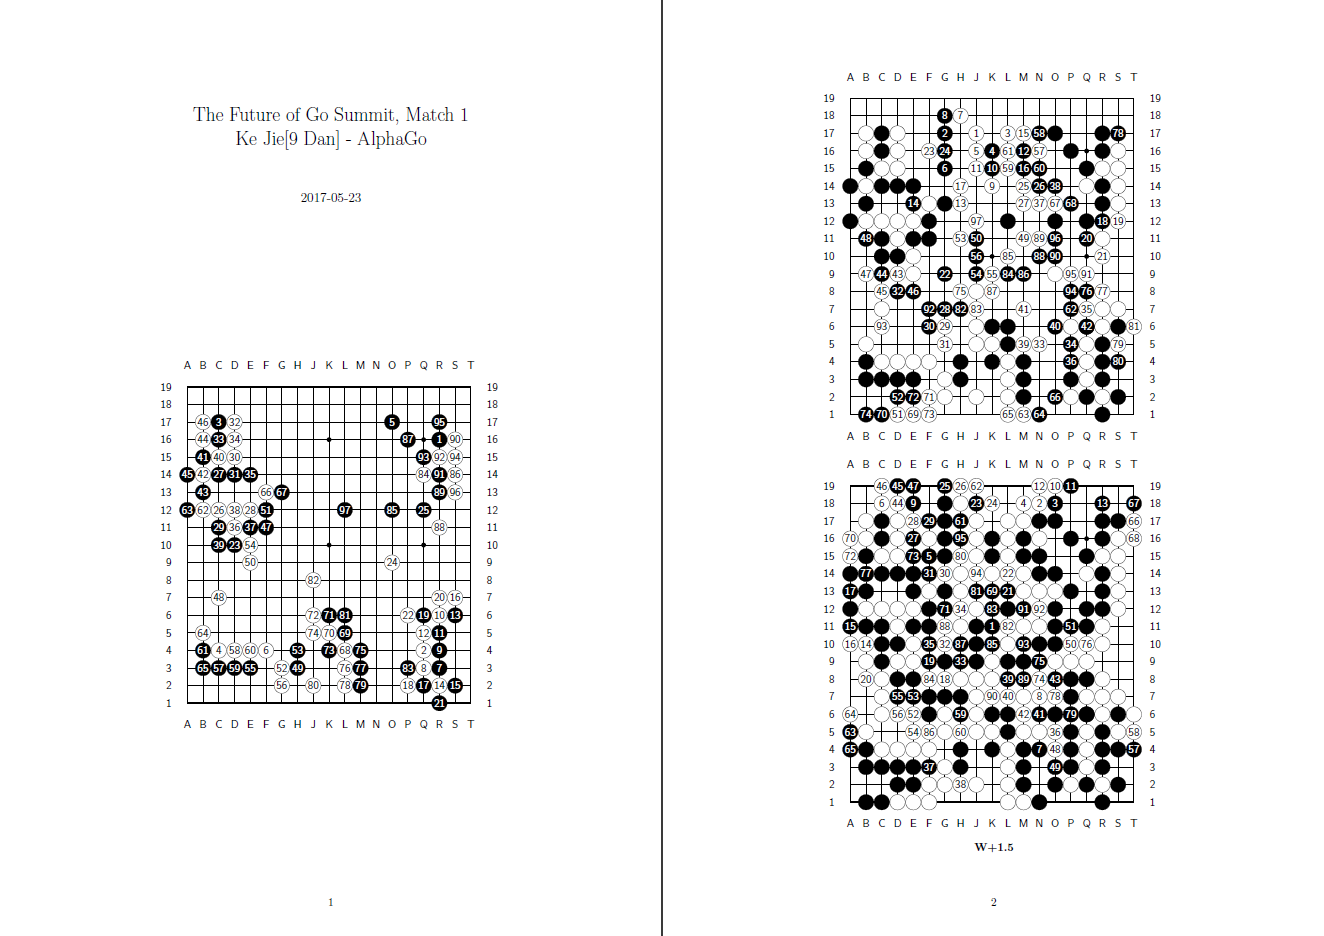
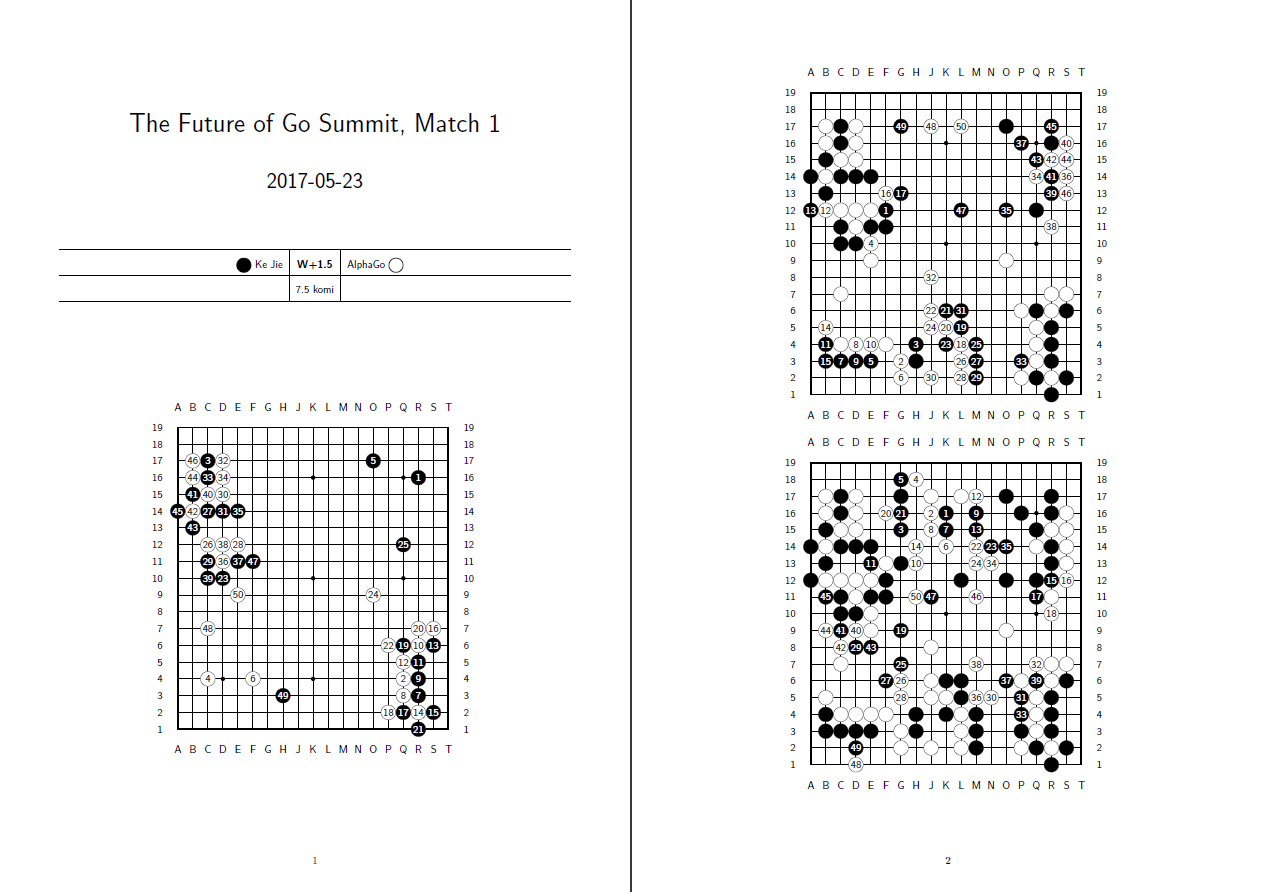
new style

diff --git a/kifugen.py b/kifugen.py
@@ -7,6 +7,7 @@ parser = argparse.ArgumentParser(description='Convert sgf go records into a kifu
 
 parser.add_argument('sgfFile')
 parser.add_argument('-se', "--splitevery", dest="step", type=int, default=50)
+parser.add_argument('-cn', "--continuousNumbers", action="store_true", dest="cn", default=False)
 parser.add_argument('-c', "--compile", action="store_true", dest="c", default=False)
 parser.add_argument('-o', "--open", action="store_true", dest="o", default=False)
 
@@ -65,7 +66,7 @@ def generate_moves():
         currentSplit = splitBoardAt[i]
         nextSplit = splitBoardAt[i+1]
 
-        outText.extend(["\n\\setcounter{gomove}{0}\n", "\\begin{psgoboard}\n\t"])
+        outText.append("\\begin{psgoboard}\n\t")
 
         # old moves
         for j in range(currentSplit):
@@ -95,6 +96,8 @@ def generate_moves():
         outText.append("\n\\end{psgoboard}\n")
         if finished:
             break
+        elif not args.cn:
+            outText.append("\n\\setcounter{gomove}{0}\n")
 
     return "".join(outText)
 
@@ -112,31 +115,43 @@ parsedHeader = {
 }
 
 
-title = generate_title()
+# title = generate_title()
+event = parsedHeader["event"]
 date = parsedHeader["date"]
-moves = generate_moves()
 result = parsedHeader["result"]
+playerWhite = parsedHeader["playerWhite"]
+playerBlack = parsedHeader["playerBlack"]
+moves = generate_moves()
 
 outText = f"""
 \\documentclass[a4paper]{{article}}
 \\usepackage{{psgo}}
 \\usepackage[ngerman]{{babel}}
 \\usepackage[margin=2cm,nohead]{{geometry}}
+\\usepackage{{tabularx}}
+
+\\newcolumntype{{R}}{{>{{\\raggedleft\\arraybackslash}}X}}
 
 \\setgounit{{0.5cm}}
-
-\\author{{}}
-\\title{{{title}}}
-\\date{{{date}}}
+\\setcounter{{gomove}}{{0}}
 
 \\begin{{document}}
-\\maketitle
-\\vspace{{3.5cm}}
+\\sffamily
+\\def\\arraystretch{{2}}
 \\begin{{center}}
+    \\vspace*{{1cm}}
+    {{\\Huge {event} \\par}}
+	\\vspace{{1cm}}
+	{{\\huge {date} \\par}}
+	\\vspace{{2cm}}
+	\\begin{{tabularx}}{{\\textwidth}}{{ R | c | X }}
+    \\hline
+    \\stone{{black}} {playerBlack} & \\textbf{{{result}}} & {playerWhite} \\stone{{white}} \\\\\\hline
+     & 7.5 komi &  \\\\\\hline
+  \\end{{tabularx}}
+  \\vspace{{3cm}}
 
 {moves}
-
-\\textbf{{{result}}}
 
 \\end{{center}}
 \\end{{document}}

diff --git a/Readme.md b/Readme.md
@@ -19,8 +19,9 @@ To run kifugen you will need:
 # Usage
 The basic usage is `kifugen <file> [options]` where file is the `.sgf` file and options are:
 
-| Option         | Meaning                       |
-| :------------- | :---------------------------- |
-| -se n          | "split every" n moves         |
-| -c             | compile to pdf                |
-| -o             | open the pdf after compilation|
+| Option         | Meaning                       | Default   |
+| :------------- | :---------------------------- | :-------- |
+| -se n          | "split every" n moves         | 50        |
+| -cn            | continuous numbering          | false     |
+| -c             | compile to pdf                | false     |
+| -o             | open the pdf after compilation| false     |
